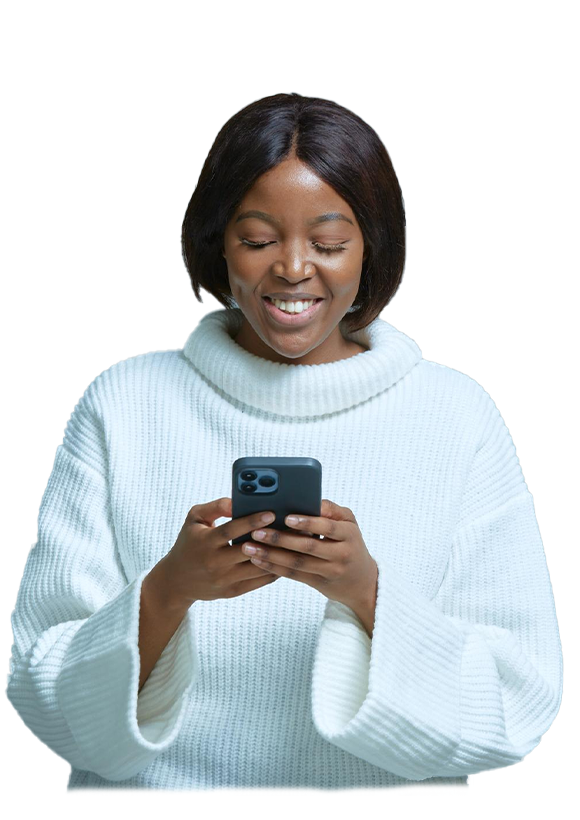
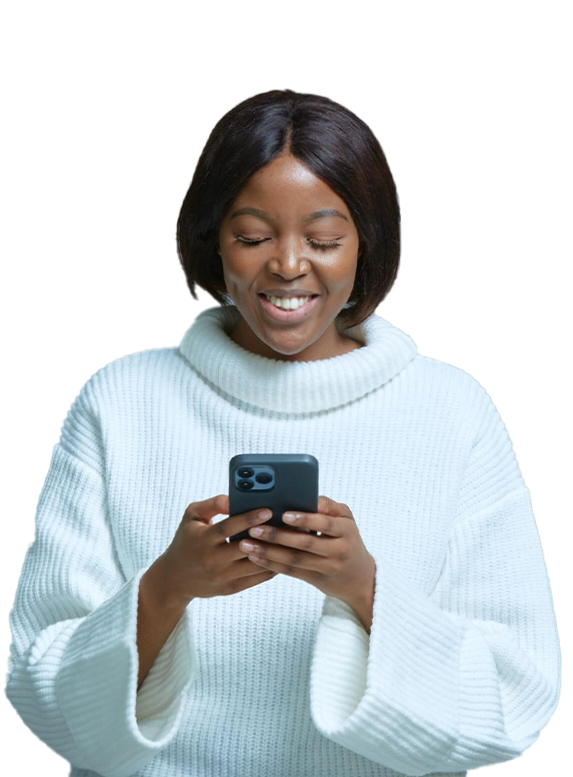
fixed footer image

diff --git a/src/components/Footer/index.jsx b/src/components/Footer/index.jsx
@@ -51,7 +51,7 @@ const Footer = () => {
           <br /><br />
 
         </div>
-        <div className="flex justify-center md:block translate-y-7 md:translate-y-9">
+        <div className="flex justify-center md:block translate-y-[-2] ">
           <img src={Illustrate.src} alt="illustration of a girl" />
         </div>
       </div>
